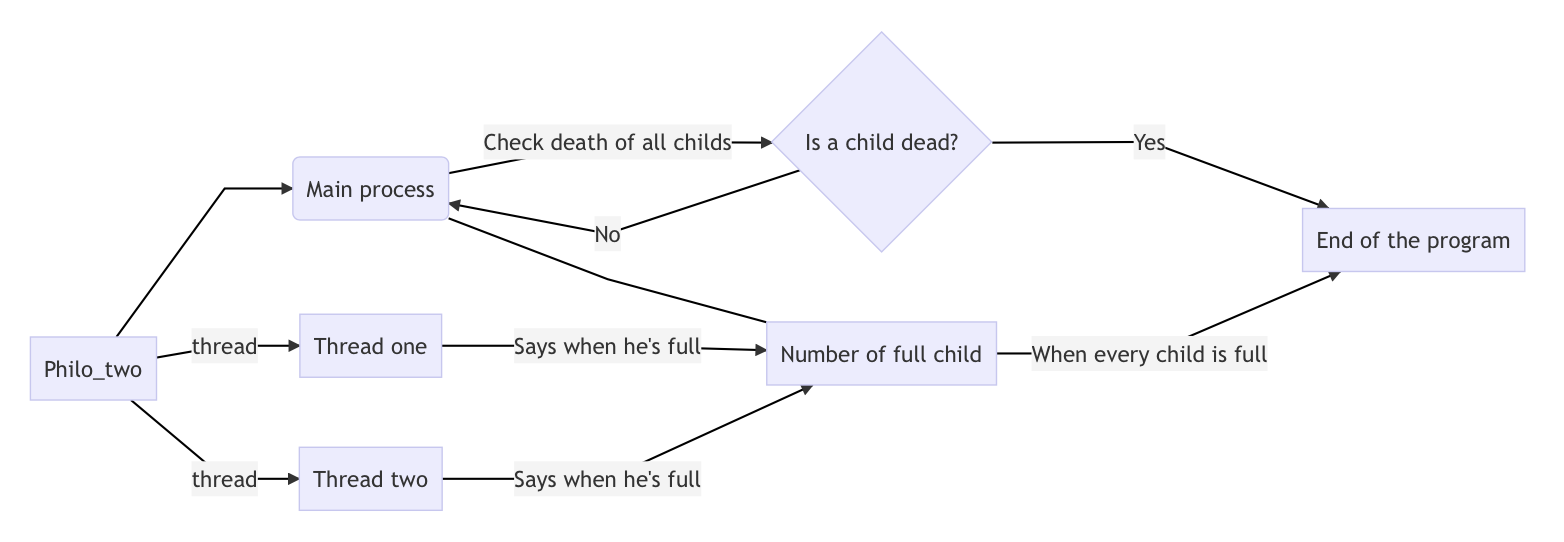
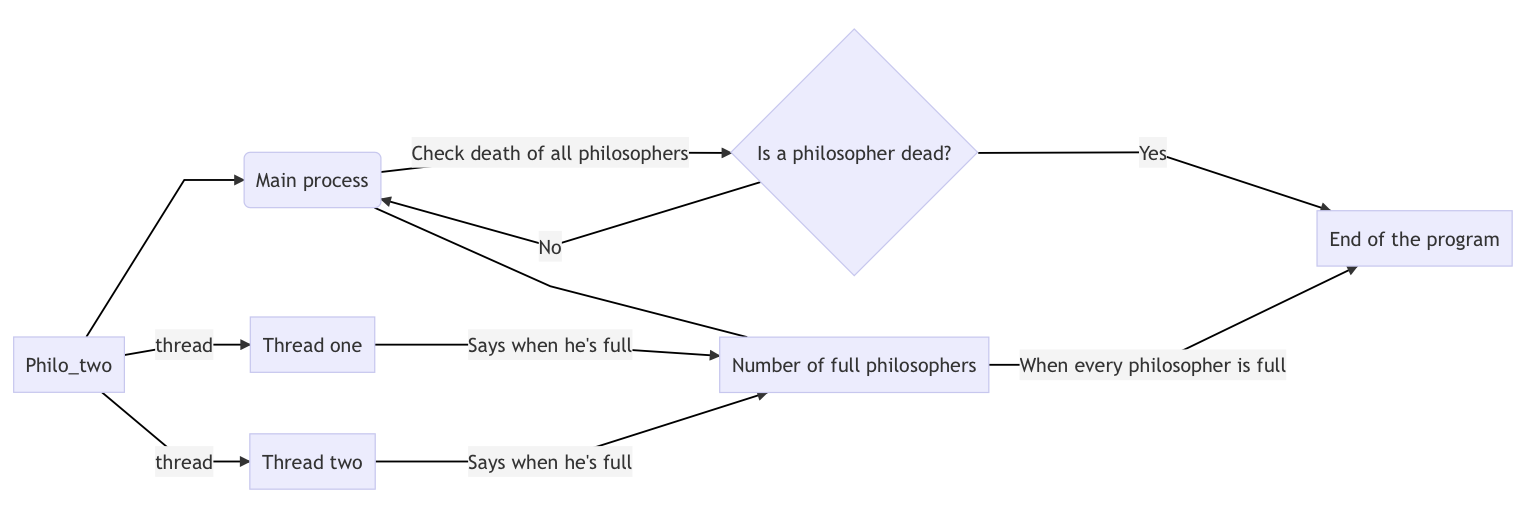
MAJ readme

diff --git a/README.md b/README.md
@@ -8,6 +8,8 @@ Le sujet du projet est disponible dans le repository git, nous rappelerons seule
 
 Nous identifierons respectivement les fourchettes et philosophes numéro i par les appellations fork_i et philo_i.
 
+Sur les schémas ci-dessous, un philosophe rassasié est dit "full".
+
 ### Philo_one
 
 #### *Spécificités*
@@ -34,9 +36,61 @@ Nous identifierons respectivement les fourchettes et philosophes numéro i par l
 
 ## Philo_one
 
+### Structure globale
+
 ![schema_0](./images_readme/diagram_philo_one.png)
 
+### Gestion des mutex
+
+Chaque fourchette a son propre mutex qui permet de la verrouiller lorsqu'un philosophe la prend.
+
+On utilise aussi un mutex partagé par tous les philosophes qui permet de print du texte sans mélange.
+
+### Vérification de la mort des philosophes
+
+Le programme "parent" ayant accès aux ressources des threads, c'est lui qui vérifie en permanence en fond si chaque philosophe est encore vivant.
+
+### Spécificités
+
+#### 1. Eviter de se retrouver bloqué
+
+Si chaque philosophe prend en même temps sa fourchette gauche, aucun ne pourra prendre sa fourchette droite.
+
+Pour éviter cette situation :
+- Les philosophes paires (0, 2, 4...) commencent par prendre leur fourchette droite, puis leur fourchette gauche.
+- Les philosophes impaires font l'inverse.
+
+#### 2. Eviter la mort d'un philosophe
+
+Selon les paramètres utilisés, une fourchette pourrait être utilisée deux fois d'affilée par le même philosophe.
+
+Pour éviter cette situation :
+- Chaque fourchette note le numéro du dernier philosophe l'ayant utilisée.
+- Un philosophe n4essaye de prendre une fourchette que s'il n'est pas le dernier à l'avoir utilisée.
+
 ## Philo_two
+
+### Gestion des semaphores
+
+On utilise un seul semaphore global pour gérer l'ensemble des fourchettes. Sa valeur initiale est le nombre de philosophes.
+
+On utilise aussi un semaphore partagé par tous les philosophes qui permet de print du texte sans mélange. Sa valeur initiale est égale à un.
+
+### Vérification de la mort des philosophes
+
+Le programme "parent" ayant accès aux ressources des threads, c'est lui qui vérifie en permanence en fond si chaque philosophe est encore vivant.
+
+### Spécificités
+
+#### 1. Eviter la mort d'un philosophe
+
+Si aucune précaution n'est prise, certains philosophes pourraient manger deux fois pendant que d'autres attendent leur tour, provoquant leur mort.
+
+Pour éviter cette situation :
+- On utilise un entier croissant représentant le prochain philosophe à être autorisé à prendre une fourchette.
+- Quand le philosophe en question a pris ses deux fouchettes, on incrémente l'entier (ou on lui donne la valeur de 1 si on était rendu au dernier philosophe).
+
+### Structure globale
 
 La structure globale de Philo_two est la même que celle de Philo_one.
 
@@ -44,4 +98,26 @@ La structure globale de Philo_two est la même que celle de Philo_one.
 
 ## Philo_three
 
+### Structure globale
+
 ![schema_0](./images_readme/diagram_philo_three.png)
+
+### Gestion des semaphores
+
+*Cf même section de Philo_two pour le semaphore des fourchettes et celui de l'écriture.*
+
+Contrairement à Philo_one et Philo_two qui utilisaient des threads, l'utilisation de processus fils ne permet pas :
+- Aux childs de modifier une valeur dans le processus parent (pour indiquer qu'un philosophe est mort ou rassasié).
+- Au parent de 
+
+
+
+### Vérification de la mort des philosophes
+
+Le programme "parent" ayant accès aux ressources des threads, c'est lui qui vérifie en permanence en fond si chaque philosophe est encore vivant.
+
+### Spécificités
+
+#### 1. Eviter la mort d'un philosophe
+
+*Cf même section de Philo_two.*
